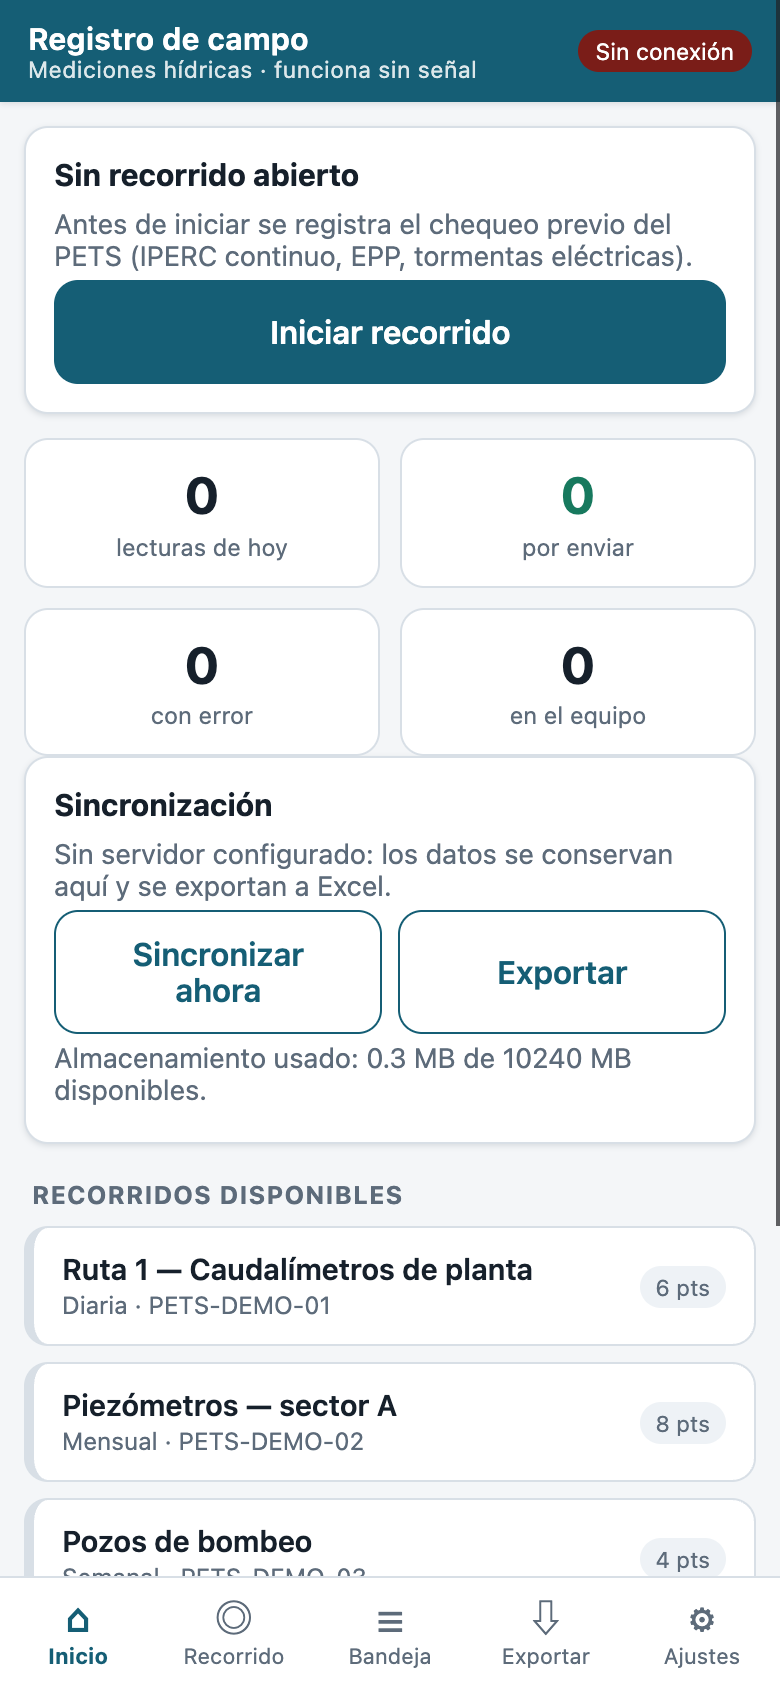
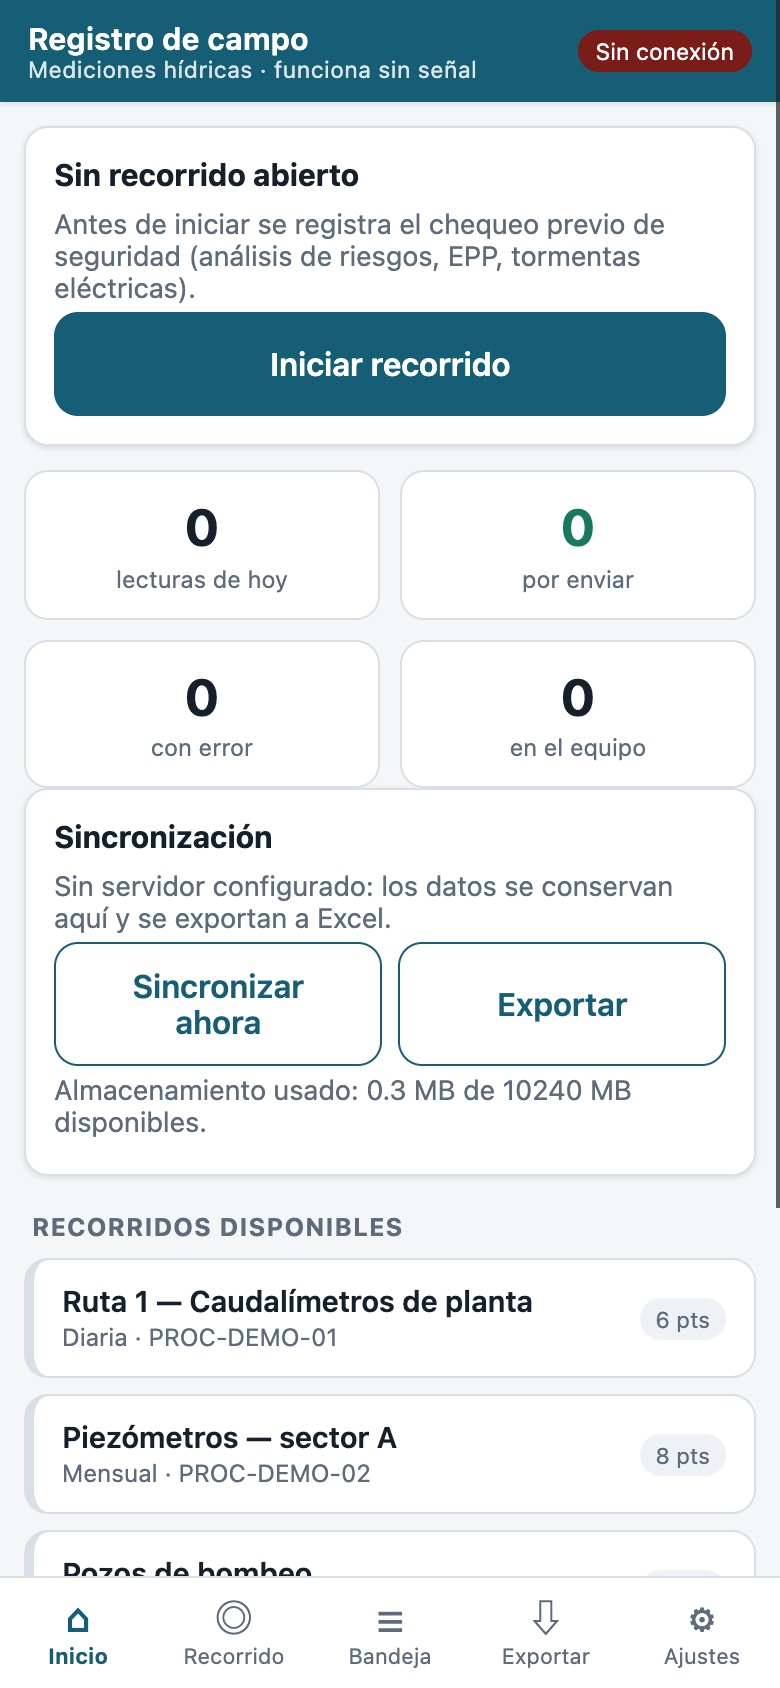
Lenguaje de seguridad genérico, licencia y publicación en GitHub Pages
- El chequeo previo habla de procedimiento y análisis de riesgos.
- Licencia: todos los derechos reservados.
- Workflow que publica solo app/ en GitHub Pages.

diff --git a/app/js/app.js b/app/js/app.js
@@ -98,7 +98,7 @@ async function vInicio() {
     jornadaHTML = `
       <div class="tarjeta">
         <h2>Sin recorrido abierto</h2>
-        <p>Antes de iniciar se registra el chequeo previo del PETS (IPERC continuo, EPP, tormentas eléctricas).</p>
+        <p>Antes de iniciar se registra el chequeo previo de seguridad (análisis de riesgos, EPP, tormentas eléctricas).</p>
         <button class="primario" onclick="ir('iniciar')">Iniciar recorrido</button>
       </div>`;
   }
@@ -136,7 +136,7 @@ async function vInicio() {
       ${CATALOGO.rutas.filter(r => r.unidad === estado.cfg.unidad).map(r => `
         <li class="item pendiente" onclick="ir('iniciar/${r.id}')">
           <div class="txt"><div class="nom">${esc(r.nombre)}</div>
-          <div class="det">${esc(r.frecuencia || '')} · ${esc(r.pets || r.formato || '')}</div></div>
+          <div class="det">${esc(r.frecuencia || '')} · ${esc(r.procedimiento || r.formato || '')}</div></div>
           <span class="est">${CATALOGO.puntos.filter(p => p.ruta === r.id).length} pts</span>
         </li>`).join('')}
     </ul>
@@ -146,8 +146,8 @@ async function vInicio() {
 
 /* -------------------------------------------------------------- INICIAR --- */
 const CHECKLIST = [
-  'Conozco el PETS y el IPERC de línea base de la tarea.',
-  'IPERC continuo llenado y firmado por el supervisor.',
+  'Conozco el procedimiento y el análisis de riesgos de la tarea.',
+  'Análisis de riesgos del día llenado y firmado por el supervisor.',
   'EPP básico y específico completo y en buen estado.',
   'Herramientas y equipos operativos e inspeccionados según el estándar de la empresa.',
   'Vehículo con check list de preuso conforme; conductor autorizado.',
@@ -160,7 +160,7 @@ async function vIniciar(rutaId) {
   $('#app').innerHTML = `
     <div class="tarjeta">
       <h2>Chequeo previo al recorrido</h2>
-      <p>Queda registrado con hora y responsable: es la evidencia que pide ISO 45001 y el PETS.</p>
+      <p>Queda registrado con hora y responsable: es la evidencia que pide ISO 45001 y el procedimiento.</p>
       <label>Recorrido</label>
       <select id="selRuta">
         ${rutas.map(r => `<option value="${r.id}" ${r.id === rutaId ? 'selected' : ''}>${esc(r.nombre)}</option>`).join('')}
@@ -230,7 +230,7 @@ async function vRuta() {
       <h2>${esc(ruta.nombre || '')}</h2>
       <div class="barra"><i style="width:${puntos.length ? hechos / puntos.length * 100 : 0}%"></i></div>
       <p>${hechos} de ${puntos.length} puntos · ${esc(estado.jornada.operador)}</p>
-      ${ruta.pets ? `<p class="ayuda">Procedimiento aplicable: ${esc(ruta.pets)}${ruta.formato ? ' · formato ' + esc(ruta.formato) : ''}</p>` : ''}
+      ${ruta.procedimiento ? `<p class="ayuda">Procedimiento aplicable: ${esc(ruta.procedimiento)}${ruta.formato ? ' · formato ' + esc(ruta.formato) : ''}</p>` : ''}
     </div>
     ${ruta.modoFoto ? `
     <div class="tarjeta">

diff --git a/app/js/catalogo.js b/app/js/catalogo.js
@@ -103,12 +103,12 @@ const ruta = (rutaId, defs) =>
 
 /* ============================ RUTAS ======================================== */
 const RUTAS = [
-  { id: 'DM-R1', unidad: UNIDAD, nombre: 'Ruta 1 — Caudalímetros de planta', pets: 'PETS-DEMO-01', frecuencia: 'Diaria' },
-  { id: 'DM-PZ', unidad: UNIDAD, nombre: 'Piezómetros — sector A', pets: 'PETS-DEMO-02', frecuencia: 'Mensual', formato: 'F-DEMO-02', modoFoto: true },
-  { id: 'DM-EX', unidad: UNIDAD, nombre: 'Pozos de bombeo', pets: 'PETS-DEMO-03', frecuencia: 'Semanal', formato: 'F-DEMO-03', modoFoto: true },
-  { id: 'DM-PTAP', unidad: UNIDAD, nombre: 'Planta de tratamiento de agua', pets: 'PETS-DEMO-04', frecuencia: 'Por turno' },
-  { id: 'DM-AF', unidad: UNIDAD, nombre: 'Aforos y calidad de agua', pets: 'PETS-DEMO-05', frecuencia: 'Programada' },
-  { id: 'DM-RES', unidad: UNIDAD, nombre: 'Reservorios y meteorología', pets: 'PETS-DEMO-06', frecuencia: 'Diaria' }
+  { id: 'DM-R1', unidad: UNIDAD, nombre: 'Ruta 1 — Caudalímetros de planta', procedimiento: 'PROC-DEMO-01', frecuencia: 'Diaria' },
+  { id: 'DM-PZ', unidad: UNIDAD, nombre: 'Piezómetros — sector A', procedimiento: 'PROC-DEMO-02', frecuencia: 'Mensual', formato: 'F-DEMO-02', modoFoto: true },
+  { id: 'DM-EX', unidad: UNIDAD, nombre: 'Pozos de bombeo', procedimiento: 'PROC-DEMO-03', frecuencia: 'Semanal', formato: 'F-DEMO-03', modoFoto: true },
+  { id: 'DM-PTAP', unidad: UNIDAD, nombre: 'Planta de tratamiento de agua', procedimiento: 'PROC-DEMO-04', frecuencia: 'Por turno' },
+  { id: 'DM-AF', unidad: UNIDAD, nombre: 'Aforos y calidad de agua', procedimiento: 'PROC-DEMO-05', frecuencia: 'Programada' },
+  { id: 'DM-RES', unidad: UNIDAD, nombre: 'Reservorios y meteorología', procedimiento: 'PROC-DEMO-06', frecuencia: 'Diaria' }
 ];
 
 /* ============================ PUNTOS ======================================= */

diff --git a/app/js/xlsx.js b/app/js/xlsx.js
@@ -226,7 +226,7 @@ function hojaTrazabilidad(lecturas, jornadas) {
   const filas = [
     ['TRAZABILIDAD DEL REGISTRO — ISO 9001 7.5 / ISO 14001 9.1 / ISO 45001'],
     ['ID REGISTRO', 'PUNTO', 'FECHA', 'HORA', 'OPERADOR', 'EMPRESA', 'DISPOSITIVO', 'GPS', 'FOTO', 'ORIGEN',
-      'ALERTAS DE VALIDACIÓN', 'ESTADO', 'CREADO (UTC)', 'ENVIADO (UTC)', 'CORRIGE A', 'HUELLA', 'JORNADA / IPERC']
+      'ALERTAS DE VALIDACIÓN', 'ESTADO', 'CREADO (UTC)', 'ENVIADO (UTC)', 'CORRIGE A', 'HUELLA', 'RECORRIDO / CHEQUEO PREVIO']
   ];
   const jx = {}; (jornadas || []).forEach(j => { jx[j.id] = j; });
   lecturas.forEach(l => {

diff --git a/README.md b/README.md
@@ -171,4 +171,4 @@ Edson Palomino — [github.com/edpauce](https://github.com/edpauce)
 
 ## Licencia
 
-Pendiente de definir.
+Código publicado como muestra de trabajo. Todos los derechos reservados.
